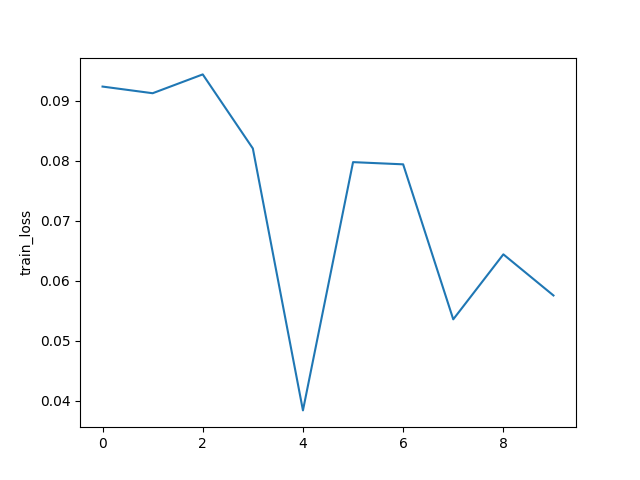
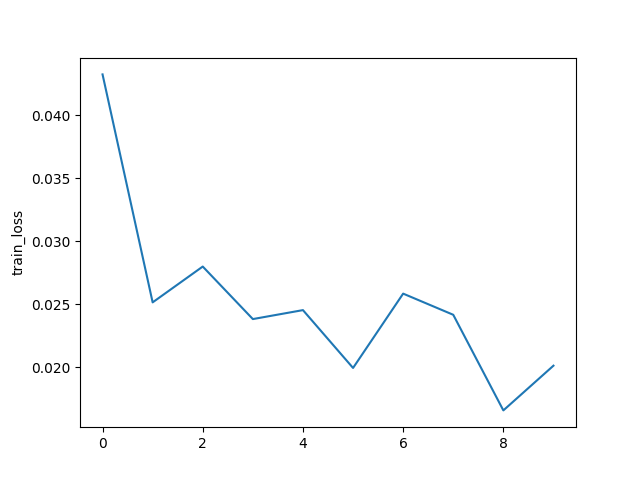
Version1.1.1

diff --git a/main_fed.py b/main_fed.py
@@ -70,28 +70,49 @@ if __name__ == '__main__':
     net_best = None
     best_loss = None
     val_acc_list, net_list = [], []
+    loss_diff_list =  []
 
     if args.all_clients: 
         print("Aggregation over all clients")
         w_locals = [w_glob for i in range(args.num_users)]
-        
+
+    #初始化的 global loss
+    loss_avg = args.loss_avg
+
+    #定义loss列表, 初始化全为 0
+    loss_records = [[0 for i in range(args.epochs)] for j in range(args.num_users)]
+
     for iter in range(args.epochs):
         loss_locals = []
         if not args.all_clients:
             w_locals = []
+
+        #至少选择一个节点 args.frac为选择节点率
         m = max(int(args.frac * args.num_users), 1)
+        #被选中的节点
         idxs_users = np.random.choice(range(args.num_users), m, replace=False)
-        for idx in idxs_users:
-            local = LocalUpdate(args=args, dataset=dataset_train, idxs=dict_users[idx])
-            w, loss = local.train(net=copy.deepcopy(net_glob).to(args.device))
+
+
+        #通过改变epoch的值来调节每个节点的quality
+        quality = 10
+
+        # 修改 update
+        for idx in idxs_users.tolist():
+            # dict_users 为 image index
+            local = LocalUpdate(args=args, dataset=dataset_train, idxs=dict_users[idx], loss_global=loss_avg, quality = quality)
+            w, loss, loss_diff = local.train(net=copy.deepcopy(net_glob).to(args.device))
             if args.all_clients:
                 w_locals[idx] = copy.deepcopy(w)
             else:
                 w_locals.append(copy.deepcopy(w))
+
             loss_locals.append(copy.deepcopy(loss))
+
+            #将 loss 值之差赋值
+            loss_records[idx][iter] = loss_diff
+
         # update global weights
         w_glob = FedAvg(w_locals)
-
         # copy weight to net_glob
         net_glob.load_state_dict(w_glob)
 

diff --git a/models/Update.py b/models/Update.py
@@ -22,13 +22,17 @@ class DatasetSplit(Dataset):
         image, label = self.dataset[self.idxs[item]]
         return image, label
 
-
+'''
+idx:为user index
+'''
 class LocalUpdate(object):
-    def __init__(self, args, dataset=None, idxs=None):
+    def __init__(self, args, dataset=None, idxs=None, loss_global=None, quality=None):
         self.args = args
         self.loss_func = nn.CrossEntropyLoss()
         self.selected_clients = []
         self.ldr_train = DataLoader(DatasetSplit(dataset, idxs), batch_size=self.args.local_bs, shuffle=True)
+        self.loss_global = loss_global
+        self.quality = quality
 
     def train(self, net):
         net.train()
@@ -36,7 +40,8 @@ class LocalUpdate(object):
         optimizer = torch.optim.SGD(net.parameters(), lr=self.args.lr, momentum=self.args.momentum)
 
         epoch_loss = []
-        for iter in range(self.args.local_ep):
+        # for iter in range(self.args.local_ep):
+        for iter in range(self.quality):
             batch_loss = []
             for batch_idx, (images, labels) in enumerate(self.ldr_train):
                 images, labels = images.to(self.args.device), labels.to(self.args.device)
@@ -51,5 +56,12 @@ class LocalUpdate(object):
                                100. * batch_idx / len(self.ldr_train), loss.item()))
                 batch_loss.append(loss.item())
             epoch_loss.append(sum(batch_loss)/len(batch_loss))
-        return net.state_dict(), sum(epoch_loss) / len(epoch_loss)
+
+        # 更新过后的 loss
+        updated_loss = sum(epoch_loss) / len(epoch_loss)
+
+        # 全局的loss 和 当前的loss值之差
+        loss_diff = self.loss_global - updated_loss
+
+        return net.state_dict(), sum(epoch_loss) / len(epoch_loss), loss_diff
 

diff --git a/utils/options.py b/utils/options.py
@@ -10,12 +10,13 @@ def args_parser():
     parser.add_argument('--epochs', type=int, default=10, help="rounds of training")
     parser.add_argument('--num_users', type=int, default=100, help="number of users: K")
     parser.add_argument('--frac', type=float, default=0.1, help="the fraction of clients: C")
-    parser.add_argument('--local_ep', type=int, default=5, help="the number of local epochs: E")
+    parser.add_argument('--local_ep', type=int, default=20, help="the number of local epochs: E")
     parser.add_argument('--local_bs', type=int, default=10, help="local batch size: B")
     parser.add_argument('--bs', type=int, default=128, help="test batch size")
     parser.add_argument('--lr', type=float, default=0.01, help="learning rate")
     parser.add_argument('--momentum', type=float, default=0.5, help="SGD momentum (default: 0.5)")
     parser.add_argument('--split', type=str, default='user', help="train-test split type, user or sample")
+    parser.add_argument('--loss_avg', type = float, default=100, help='initiation global loss value')
 
     # model arguments
     parser.add_argument('--model', type=str, default='mlp', help='model name')
